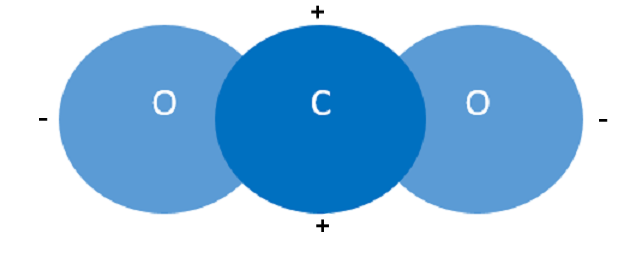
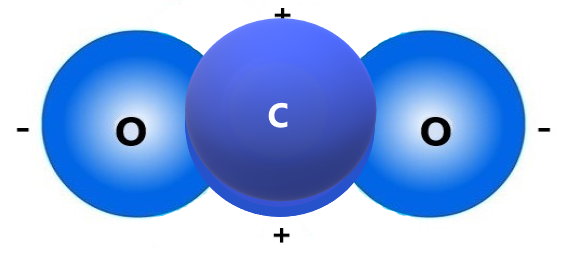
eds

diff --git a/dissolving/index.html b/dissolving/index.html
@@ -93,16 +93,16 @@
       </p>
       <p>
         For example, as shown below, brown sugar was added to a glass of water. At first it sank to the bottom of the
-        water (below, left picture). After the water was stirred, the brown sugar is no longer visible. It has
+        water (as shown below, left). After the water was stirred, the brown sugar is no longer visible. It has
         dissolved, or broken down into particles that are too small to see. In the picture below and to the right, you
-        can no longer see the brown sugar after it has dissolved in water.
+        can no longer see the brown sugar after it has dissolved in the water.
       </p>
 
       <br/>
-      <div class="text-centered" class="img-size_200">
-        <img alt="sugar in water before they dissolve" src="Sugar_Water_Before3.png" class="img-size_250"/>
+      <div class="text-centered">
+        <img alt="sugar in water before they dissolve" src="Sugar_Water_Before3.png" height="325">
         <span>    </span>
-        <img alt="sugar in water after they dissolve" src="Sugar_Water_After.png" width="267.5"/>
+        <img alt="sugar in water after they dissolve" src="Sugar_Water_After.png" height="325">
       </div>
       <br/>
 
@@ -128,6 +128,15 @@
       </div>
 
 <br>
+      <p class="text-centered">
+        (See
+        <a class="brm-link" href="../molecules/" target="_blank">molecules unit</a>
+        for a review of H<sub>2</sub>O and NaCl molecules.)
+      </p>
+
+<br>
+
+<br>
       <ul class="brm-list">
         <li>
           We call the substance that dissolves the "solvent." Salt (such as sodium chloride, NaCl) is one solvent that
@@ -142,16 +151,22 @@
 
 <br>
 
-      <p class="text-centered">
-        (See
-        <a class="brm-link" href="../molecules/" target="_blank">molecules unit</a>
-        for a review of NaCl molecules.)
-      </p>
-
-<br>
+      
       <ul class="brm-list">
-        <li> So, water molecules can pull on the charged particles of the solvent, making them break away from other particles of
-          the solvent, such as salt grains or sugar cubes. This idea of salt starting to dissolve in water is shown below.</li>
+        <li> Oppositely-charged sides of the solute and solvent molecules are attracted to each other. The
+        
+        <select class="fib_select" id="FIB1" onchange="fibUpdate('FIB1')">
+            <option disabled="" selected="" value="#ffffff"><b>(Select one)</b></option>
+            <option value="#ed8587">gravitational force</option>
+            <option value="#ed8587">magnetic force</option>
+            <option value="#11bf7a">electric force</option>
+           
+          </select>
+        
+        
+         from oppositely-charged sides of the particles causes the 
+         particles of the solvent to be pulled away from the larger particles and into the surrounding water. This idea of 
+         table salt starting to dissolve in water is shown below.</li>
       </ul>
       <div class="text-centered" img-size_med>
         <img alt="NaCl molecule" src="WaterDissolvingSalt.jpg.png"/>

diff --git a/molecules/index.html b/molecules/index.html
@@ -684,14 +684,14 @@ For atoms to achieve full outer energy circles, they can either lose or gain ele
         second molecule attract each other. These attractions allow water molecules to form droplets.
       </p>
 
-      <img alt="positive and negative water molecule" class="img-centered img-size" src="InkedWater_Molecules_Polar_LI_PosNeg.jpg"/>
+      <img alt="positive and negative water molecule" class="img-centered img-size_med" src="InkedWater_Molecules_Polar_LI_PosNeg.jpg"/>
       <br/>
 
       <p>
         A carbon dioxide (CO<sub>2</sub>) molecule is represented below.
       </p>
 
-      <img alt="CO2 molecule" class="img-centered img-size_med" src="CO2_molecule2_clean2.png"/>
+      <img alt="CO2 molecule" class="img-centered img-size_med" src="CO2_molecule2_clean2.jpg"/>
 
       <br/><br/>
       <form class="quiz_open quiz">

diff --git a/Area_PlantReproduction/index.html b/Area_PlantReproduction/index.html
@@ -91,10 +91,10 @@
       <br/><b>IMPORTANT NOTES:</b> 
       Information given in units listed later builds on information in earlier units.
     <br>  
-        Most units are more than one page. Click on the orange arrow at the bottom right corner of the page<br> (shown below)
+        Most units are more than one page. Click on the arrow at the bottom right corner of the page<br> (shown below)
          to go to the next page in the unit. Longer units also include a table of contents.
 
-         <img alt="forward_button" class="img-centered" width="50px" src="buttonorange_forward.png"/>
+         <img alt="forward_button" class="img-centered" width="50px" src="WhiteGrayBlue_forward.jpg"/>
       
       Click on an instructional unit below to start.
     </div>

diff --git a/area_forcesmotion/index.html b/area_forcesmotion/index.html
@@ -92,10 +92,10 @@
       <br/><b>IMPORTANT NOTES:</b> 
       Information given in units listed later builds on information in earlier units.
     <br>  
-        Most units are more than one page. Click on the orange arrow at the bottom right corner of the page<br> (shown below)
+        Most units are more than one page. Click on the arrow at the bottom right corner of the page<br> (shown below)
          to go to the next page in the unit. Longer units also include a table of contents.
 
-         <img alt="forward_button" class="img-centered" width="50px" src="buttonorange_forward.png"/>
+         <img alt="forward_button" class="img-centered" width="50px" src="WhiteGrayBlue_forward.jpg"/>
       
       Click on an instructional unit below to start.
     </div>

diff --git a/area_heattemp/index.html b/area_heattemp/index.html
@@ -92,10 +92,10 @@
       <br/><b>IMPORTANT NOTES:</b> 
       Information given in units listed later builds on information in earlier units.
     <br>  
-        Most units are more than one page. Click on the orange arrow at the bottom right corner of the page<br> (shown below)
+        Most units are more than one page. Click on the arrow at the bottom right corner of the page<br> (shown below)
          to go to the next page in the unit. Longer units also include a table of contents.
 
-         <img alt="forward_button" class="img-centered" width="50px" src="buttonorange_forward.png"/>
+         <img alt="forward_button" class="img-centered" width="50px" src="WhiteGrayBlue_forward.jpg"/>
       
       Click on an instructional unit below to start.
     </div>

diff --git a/areachemphys/index.html b/areachemphys/index.html
@@ -92,10 +92,10 @@
       <br/><b>IMPORTANT NOTES:</b> 
       Information given in units listed later builds on information in earlier units.
     <br>  
-        Most units are more than one page. Click on the orange arrow at the bottom right corner of the page<br> (shown below)
+        Most units are more than one page. Click on the arrow at the bottom right corner of the page<br> (shown below)
          to go to the next page in the unit. Longer units also include a table of contents.
 
-         <img alt="forward_button" class="img-centered" width="50px" src="buttonorange_forward.png"/>
+         <img alt="forward_button" class="img-centered" width="50px" src="WhiteGrayBlue_forward.jpg"/>
       
       Click on an instructional unit below to start.
     </div>
